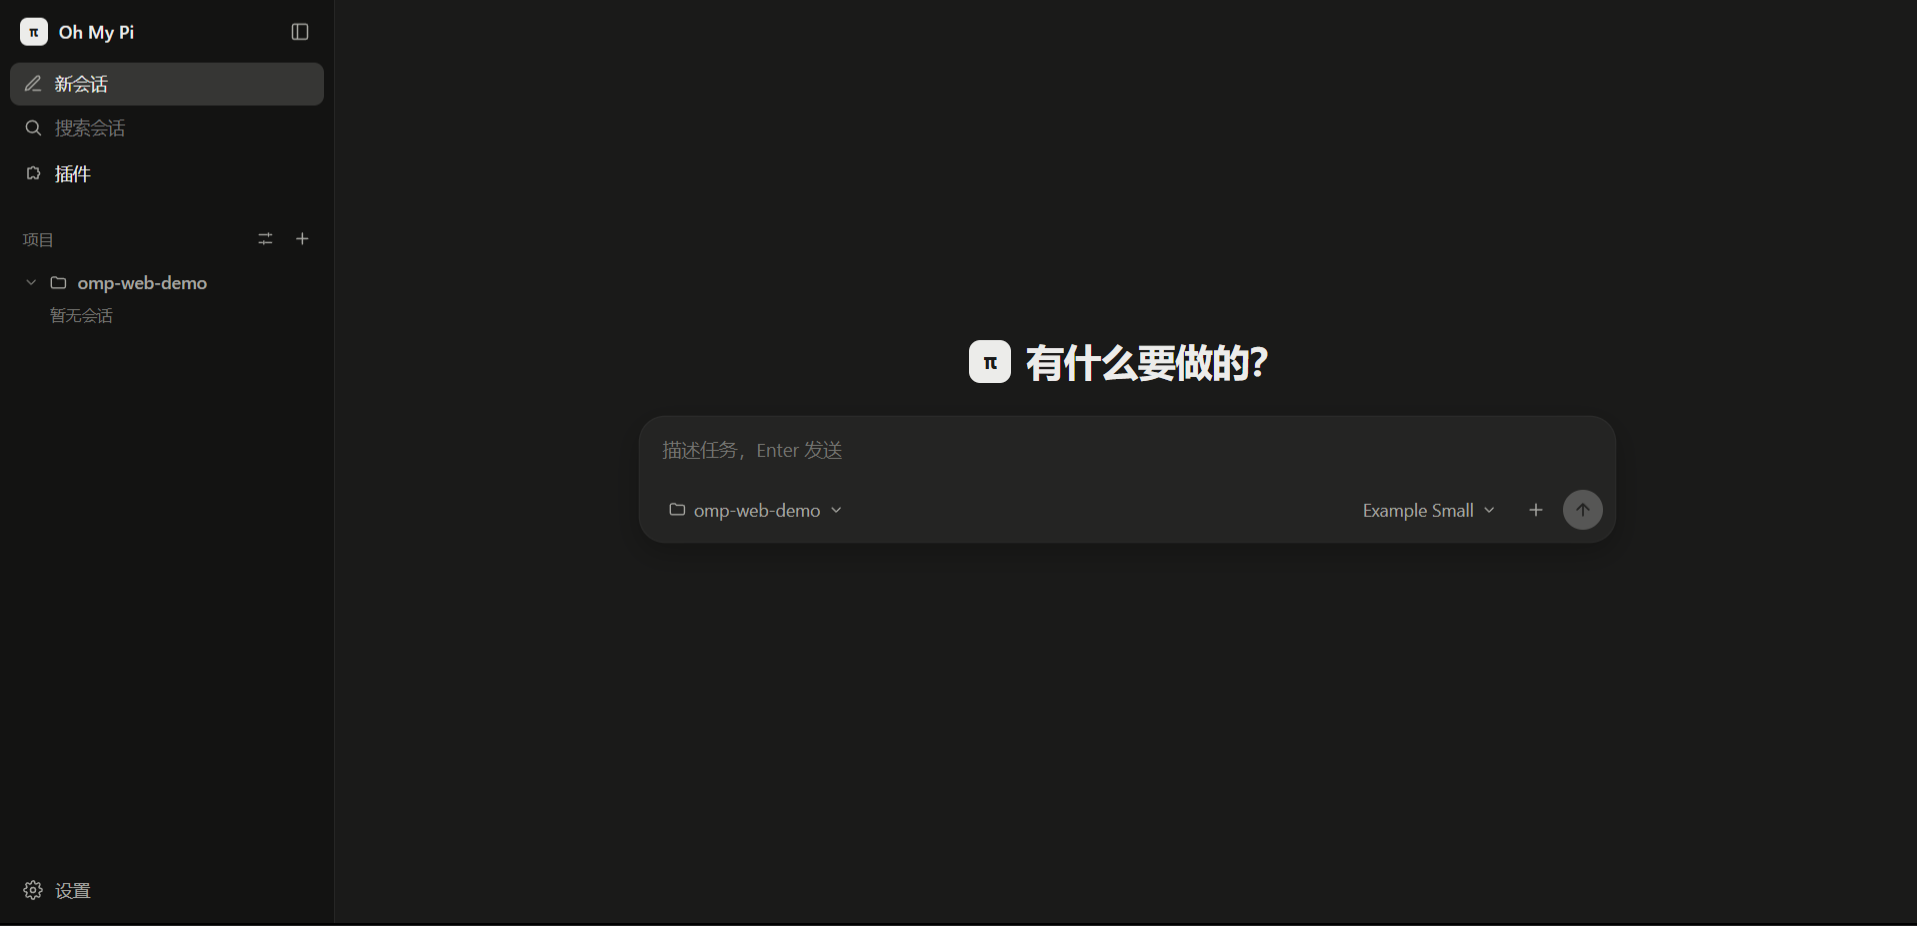
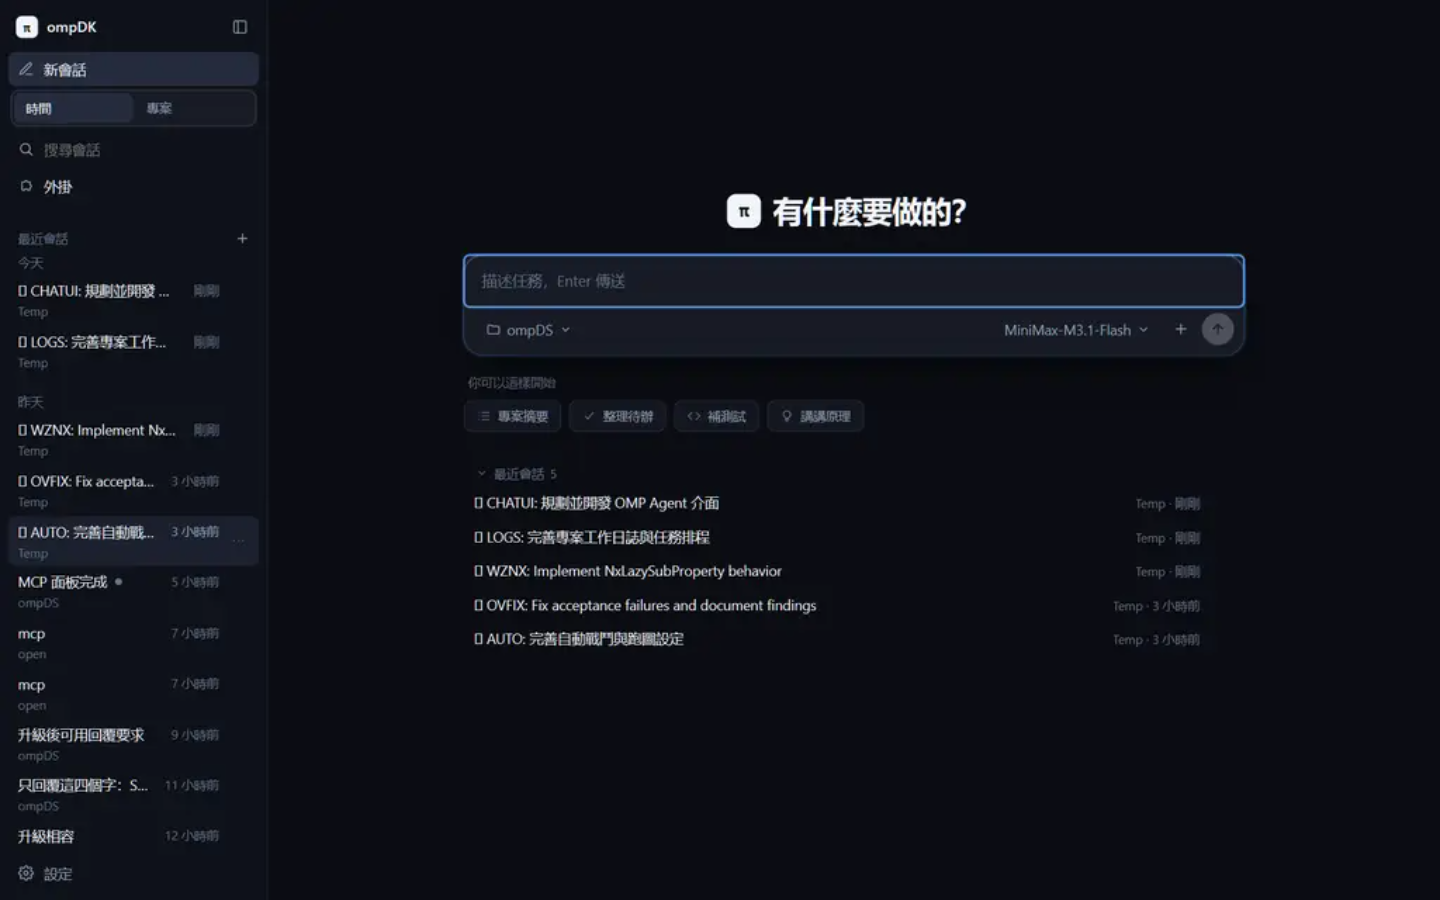
feat: 專用圖示與真實介面截圖
安裝檔與開始選單原本用的是 Electron 的預設圖示（橘色雷電），
repo 裡的截圖則是上游舊版 UI——命令面板、狀態列、MCP 面板都不在那上面。

- build/icon.png（512×512）與 icon.svg：深色底 + 白色 DK，16×16 也要讀得出來。
  electron-builder 會自動轉成 .ico（實測產出 7 種尺寸：16 到 256）。
  electron-builder.yml 指定 win.icon，web/public/icon.svg 也一併同步（favicon）。
- 重新截圖並置入 README：主畫面（深／淺）、MCP 面板、命令面板、設定關於頁。
- docs/upstream-README* 的截圖路徑修正為相對 docs/，並加上「這是上游原文」的說明。
- 新增 docs/SIGNING.md：說明為什麼不用自我簽章擋 SmartScreen（自我簽章不會消除
  警告，只多一層困惑），以及真正能免掉警告的 OV 憑證怎麼接上（不用改程式碼，
  設 CSC_LINK / CSC_KEY_PASSWORD 即可）。

diff --git a/docs/SIGNING.md b/docs/SIGNING.md
@@ -1,0 +1,42 @@
+# 程式碼簽章
+
+## 現況：安裝檔沒有簽章
+
+`release/ompDK-*.exe` 是**未簽章**的。Windows 的 SmartScreen 會擋下未簽章的下載，
+使用者要按「更多資訊 → 仍要執行」才裝得上。
+
+### 為什麼不用自我簽章擋掉這個警告
+
+自我簽章（self-signed）**不會**消除 SmartScreen 的警告——憑證鏈不被 Windows 信任，
+SmartScreen 照樣跳，只多一層「無法驗證發布者」的困惑。使用者仍然要手動放行，
+而那個憑證還得另外安裝到使用者的機器上（否則連 integrity 都驗不了）。
+
+真正能免掉警告的是**公開信任的簽章憑證**：
+
+| 方案 | 費用 | 適合誰 |
+| --- | --- | --- |
+| **OV（Open Source）憑證**（SignPath Community、Azure Trusted Signing） | 免費，但只開放給公開的開源專案，且要人工審核 | 本專案符合（公開的 MIT 專案） |
+| 商業憑證（EV／OV Code Signing） | 每年數千美元 | 不適合個人專案 |
+
+### 接上憑證要做的（不用改程式碼）
+
+electron-builder 原生支援 `CSC_LINK` 與 `CSC_KEY_PASSWORD`：
+
+```sh
+# PFX 憑證檔（.pfx）與它的密碼
+CSC_LINK=/path/to/ompdk.pfx CSC_KEY_PASSWORD=... bun run electron:build
+```
+
+Windows 上也可以用簽章工具（`signtool sign /fd SHA256 /f ompdk.pfx /p <密碼>`）在打包後簽。
+
+`electron-builder.yml` 不需要為此改任何東西——簽章是環境變數決定的。
+
+### 若要用 OV 憑證
+
+1. 申請 SignPath Community 或 Azure Trusted Signing（需要 GitHub 專案是公開的、
+   且通過審核——本專案符合）。
+2. 取得憑證後設定 `CSC_LINK`／`CSC_KEY_PASSWORD`，重新打包。
+3. 在 [GitHub Releases](https://github.com/e78-png/ompDK/releases) 上傳簽過的安裝檔。
+
+在簽章到位之前，請在說明裡告知使用者要手動放行 SmartScreen——本專案的 release 說明
+已經寫了這件事。

diff --git a/README.md b/README.md
@@ -14,6 +14,10 @@ ompDK 是一層介面，用 `omp --mode rpc-ui` 的協定把 omp 接到瀏覽器
 └──────────────┴──────────────────────────────────┘
 ```
 
+主畫面——左側是依時間分組的 session 紀錄，中間是聊天框：
+
+![主畫面（深色）](docs/screenshots/01_dark_home.png)
+
 除了聊天框，介面還有：
 
 - **MCP 面板**（外掛頁的第三個分頁）：顯示 omp **實際載入**的 MCP server——
@@ -21,6 +25,25 @@ ompDK 是一層介面，用 `omp --mode rpc-ui` 的協定把 omp 接到瀏覽器
 - **命令面板**（`⌘/Ctrl+K`）：搜尋所有頁面動作。
 - **桌機版**（Electron）：可打包成 Windows 安裝檔。
 - **繁體中文 / 簡體中文 / English**。
+
+### MCP 面板
+
+顯示 omp 真正載入的 MCP server——本機 15 個，含傳輸型別、啟用狀態與來源：
+
+![MCP 面板](docs/screenshots/03_mcp.png)
+
+### 命令面板
+
+`⌘/Ctrl+K` 叫出，搜尋所有頁面動作（導航、session、檢視、應用、快捷鍵）：
+
+![命令面板](docs/screenshots/04_command_palette.png)
+
+### 設定 → 關於
+
+版本、**omp 官版更新**（一鍵查詢與安裝上游最新版）與**相容性狀態**
+（未驗證的版本可以就地跑完整檢查）：
+
+![設定關於頁](docs/screenshots/02_settings.png)
 
 ## 快速開始
 

diff --git a/docs/upstream-README.md b/docs/upstream-README.md
@@ -1,5 +1,10 @@
 # Oh My Pi Web
 
+> **This is the upstream project's original README**, kept for reference.
+> It describes `omp-web` as it was before ompDK's changes. The screenshots
+> below are current (ompDK's UI); the text is upstream's.
+
+
 简体中文：[README.zh-CN.md](README.zh-CN.md)
 
 A local web UI for [Oh My Pi (omp)](https://github.com/can1357/oh-my-pi). Listens on `127.0.0.1` only.
@@ -12,13 +17,13 @@ The interface is Chinese-only so far; where this file names a control, it quotes
 
 Home — project and model pickers; the omp process starts on the first message. Light and dark:
 
-![Home, light theme](docs/screenshots/01_light_home.png)
+![Home, light theme](screenshots/01_light_home.png)
 
-![Home, dark theme](docs/screenshots/01_dark_home.png)
+![Home, dark theme](screenshots/01_dark_home.png)
 
 Settings, 通用 (General) tab — theme, font size, fonts, column width, notifications and Enter behavior:
 
-![Settings dialog](docs/screenshots/02_settings.png)
+![Settings dialog](screenshots/02_settings.png)
 
 ## Getting started
 

diff --git a/docs/upstream-README.zh-CN.md b/docs/upstream-README.zh-CN.md
@@ -1,5 +1,10 @@
 # Oh My Pi Web
 
+> **這是上游專案原本的 README**，保留作為參考。
+> 它描述的是 ompDK 二次開發之前的 `omp-web`。下面的截圖是目前的（ompDK 的介面），
+> 文字則是上游的。
+
+
 English: [README.md](README.md)
 
 [Oh My Pi（omp）](https://github.com/can1357/oh-my-pi) 的本机 Web 端，只监听 `127.0.0.1`。
@@ -10,13 +15,13 @@ English: [README.md](README.md)
 
 首页——项目和模型选择器；omp 进程在发出第一条消息时才启动。浅色与深色：
 
-![首页，浅色主题](docs/screenshots/01_light_home.png)
+![首页，浅色主题](screenshots/01_light_home.png)
 
-![首页，深色主题](docs/screenshots/01_dark_home.png)
+![首页，深色主题](screenshots/01_dark_home.png)
 
 设置——通用页：主题、字体大小、字体、对话宽度、通知和 Enter 行为。
 
-![设置窗口](docs/screenshots/02_settings.png)
+![设置窗口](screenshots/02_settings.png)
 
 ## 开始使用
 

diff --git a/README.zh-CN.md b/README.zh-CN.md
@@ -22,6 +22,25 @@ ompDK 是一层界面，用 `omp --mode rpc-ui` 的协议把 omp 接到浏览器
 - **桌面版**（Electron）：可打包成 Windows 安装包。
 - **繁体中文 / 简体中文 / English**。
 
+### MCP 面板
+
+显示 omp 真正加载的 MCP server——本机 15 个，含传输类型、启用状态与来源：
+
+![MCP 面板](docs/screenshots/03_mcp.png)
+
+### 命令面板
+
+`⌘/Ctrl+K` 叫出，搜索所有页面动作（导航、session、视图、应用、快捷键）：
+
+![命令面板](docs/screenshots/04_command_palette.png)
+
+### 设置 → 关于
+
+版本、**omp 官方更新**（一键查询与安装上游最新版）与**兼容性状态**
+（未验证的版本可以就地跑完整检查）：
+
+![设置关于页](docs/screenshots/02_settings.png)
+
 > 英文版见 [README.md](README.md)。
 
 ## 快速开始
